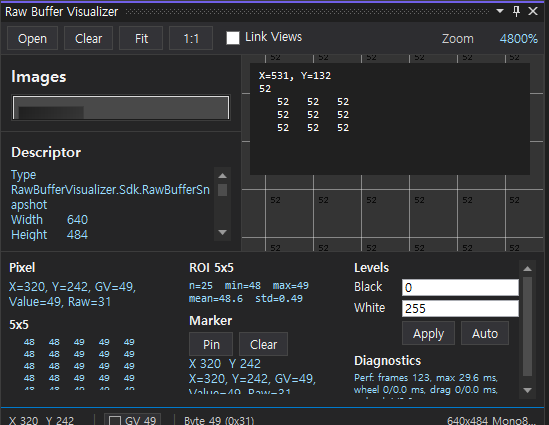
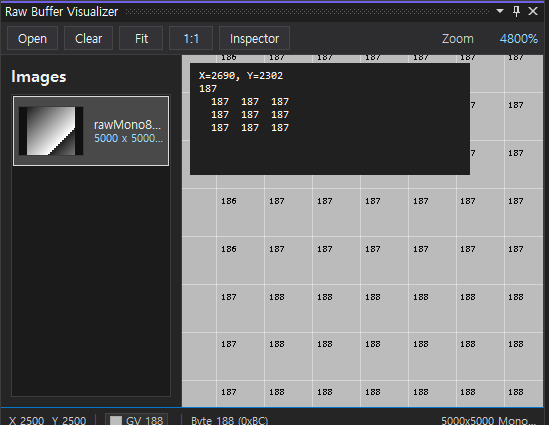
Make docked UI responsive

diff --git a/src/RawBufferVisualizer.VisualStudio.Vssdk/RawBufferToolWindowControl.xaml b/src/RawBufferVisualizer.VisualStudio.Vssdk/RawBufferToolWindowControl.xaml
@@ -60,6 +60,55 @@
                 </Setter.Value>
             </Setter>
         </Style>
+        <Style TargetType="{x:Type ToggleButton}">
+            <Setter Property="Margin" Value="0,0,6,0"/>
+            <Setter Property="Padding" Value="10,3"/>
+            <Setter Property="MinWidth" Value="64"/>
+            <Setter Property="MinHeight" Value="24"/>
+            <Setter Property="Background" Value="{StaticResource CommandBrush}"/>
+            <Setter Property="BorderBrush" Value="#454545"/>
+            <Setter Property="BorderThickness" Value="1"/>
+            <Setter Property="Foreground" Value="{StaticResource TextBrush}"/>
+            <Setter Property="FontSize" Value="12"/>
+            <Setter Property="Template">
+                <Setter.Value>
+                    <ControlTemplate TargetType="{x:Type ToggleButton}">
+                        <Border x:Name="ButtonBorder"
+                                Background="{TemplateBinding Background}"
+                                BorderBrush="{TemplateBinding BorderBrush}"
+                                BorderThickness="{TemplateBinding BorderThickness}">
+                            <ContentPresenter HorizontalAlignment="Center"
+                                              VerticalAlignment="Center"
+                                              Margin="{TemplateBinding Padding}"/>
+                        </Border>
+                        <ControlTemplate.Triggers>
+                            <Trigger Property="IsMouseOver" Value="True">
+                                <Setter TargetName="ButtonBorder" Property="Background" Value="{StaticResource CommandHoverBrush}"/>
+                                <Setter TargetName="ButtonBorder" Property="BorderBrush" Value="#5A5A5A"/>
+                            </Trigger>
+                            <Trigger Property="IsChecked" Value="True">
+                                <Setter TargetName="ButtonBorder" Property="Background" Value="{StaticResource CommandPressedBrush}"/>
+                                <Setter TargetName="ButtonBorder" Property="BorderBrush" Value="#1C97EA"/>
+                            </Trigger>
+                            <Trigger Property="IsEnabled" Value="False">
+                                <Setter Property="Opacity" Value="0.45"/>
+                            </Trigger>
+                        </ControlTemplate.Triggers>
+                    </ControlTemplate>
+                </Setter.Value>
+            </Setter>
+        </Style>
+        <Style TargetType="{x:Type TabControl}">
+            <Setter Property="Background" Value="{StaticResource PanelBrush}"/>
+            <Setter Property="BorderBrush" Value="{StaticResource BorderBrush}"/>
+            <Setter Property="Foreground" Value="{StaticResource TextBrush}"/>
+        </Style>
+        <Style TargetType="{x:Type TabItem}">
+            <Setter Property="Background" Value="#2D2D30"/>
+            <Setter Property="Foreground" Value="{StaticResource TextBrush}"/>
+            <Setter Property="BorderBrush" Value="{StaticResource BorderBrush}"/>
+            <Setter Property="Padding" Value="10,4"/>
+        </Style>
         <Style TargetType="{x:Type ListBox}">
             <Setter Property="Background" Value="#1B1B1B"/>
             <Setter Property="Foreground" Value="{StaticResource TextBrush}"/>
@@ -91,6 +140,7 @@
                     <Button Content="Fit" Click="Fit_Click"/>
                     <Button Content="1:1" Click="ActualSize_Click"/>
                     <CheckBox x:Name="LinkViewsBox" Content="Link Views" Foreground="{StaticResource TextBrush}" VerticalAlignment="Center" Margin="6,0,0,0" Checked="LinkViewsBox_Changed" Unchecked="LinkViewsBox_Changed"/>
+                    <ToggleButton x:Name="InspectorToggleButton" Content="Inspector" Visibility="Collapsed" Checked="InspectorToggleButton_Changed" Unchecked="InspectorToggleButton_Changed"/>
                     <Slider x:Name="ZoomSlider" Visibility="Collapsed" Width="1" Minimum="0.01" Maximum="16" Value="1" TickFrequency="0.1" ValueChanged="ZoomSlider_ValueChanged"/>
                 </WrapPanel>
             </DockPanel>
@@ -104,8 +154,8 @@
 
             <Grid x:Name="MainContentGrid" Grid.Row="0">
                 <Grid.ColumnDefinitions>
-                    <ColumnDefinition x:Name="ImagesColumn" Width="320" MinWidth="240"/>
-                    <ColumnDefinition Width="*" MinWidth="180"/>
+                    <ColumnDefinition x:Name="ImagesColumn" Width="320" MinWidth="160"/>
+                    <ColumnDefinition Width="*" MinWidth="140"/>
                     <ColumnDefinition x:Name="InspectorColumn" Width="300" MinWidth="0"/>
                 </Grid.ColumnDefinitions>
 
@@ -242,60 +292,72 @@
                     BorderBrush="{StaticResource BorderBrush}"
                     BorderThickness="0,1,0,0"
                     Padding="8"
-                    MaxHeight="156"
+                    MaxHeight="168"
                     Visibility="Collapsed">
-                <ScrollViewer VerticalScrollBarVisibility="Auto" HorizontalScrollBarVisibility="Disabled">
-                    <Grid>
-                        <Grid.ColumnDefinitions>
-                            <ColumnDefinition Width="1.2*"/>
-                            <ColumnDefinition Width="1.1*"/>
-                            <ColumnDefinition Width="1.1*"/>
-                        </Grid.ColumnDefinitions>
-
-                        <StackPanel Grid.Column="0" Margin="0,0,10,0">
-                            <TextBlock Text="Pixel" FontWeight="SemiBold" Margin="0,0,0,4"/>
-                            <TextBlock x:Name="CompactPixelText" Foreground="{StaticResource MutedTextBrush}" TextWrapping="Wrap" MaxHeight="34"/>
-                            <TextBlock Text="5x5" FontWeight="SemiBold" Margin="0,8,0,4"/>
-                            <TextBlock x:Name="CompactPixelNeighborhoodText" Foreground="{StaticResource MutedTextBrush}" TextWrapping="Wrap" FontFamily="Consolas" FontSize="10" MaxHeight="54"/>
-                        </StackPanel>
-
-                        <StackPanel Grid.Column="1" Margin="0,0,10,0">
-                            <TextBlock Text="ROI 5x5" FontWeight="SemiBold" Margin="0,0,0,4"/>
-                            <TextBlock x:Name="CompactRoiStatsText" Foreground="{StaticResource MutedTextBrush}" TextWrapping="Wrap" FontFamily="Consolas" FontSize="11"/>
-                            <TextBlock Text="Marker" FontWeight="SemiBold" Margin="0,8,0,4"/>
-                            <WrapPanel>
-                                <Button Content="Pin" Click="PinMarker_Click"/>
-                                <Button Content="Clear" Click="ClearMarker_Click"/>
-                            </WrapPanel>
-                            <TextBlock x:Name="CompactMarkerText" Foreground="{StaticResource MutedTextBrush}" TextWrapping="Wrap" MaxHeight="38"/>
-                        </StackPanel>
-
-                        <StackPanel Grid.Column="2">
-                            <TextBlock Text="Levels" FontWeight="SemiBold" Margin="0,0,0,4"/>
-                            <Grid>
+                <TabControl x:Name="CompactInspectorTabs">
+                    <TabItem Header="Pixel">
+                        <ScrollViewer VerticalScrollBarVisibility="Auto" HorizontalScrollBarVisibility="Disabled">
+                            <Grid Margin="4">
                                 <Grid.ColumnDefinitions>
-                                    <ColumnDefinition Width="48"/>
-                                    <ColumnDefinition Width="*"/>
+                                    <ColumnDefinition Width="1.1*"/>
+                                    <ColumnDefinition Width="1*"/>
                                 </Grid.ColumnDefinitions>
-                                <Grid.RowDefinitions>
-                                    <RowDefinition Height="Auto"/>
-                                    <RowDefinition Height="Auto"/>
-                                    <RowDefinition Height="Auto"/>
-                                </Grid.RowDefinitions>
-                                <TextBlock Grid.Row="0" Grid.Column="0" Text="Black" Margin="0,0,6,4"/>
-                                <TextBox Grid.Row="0" Grid.Column="1" x:Name="CompactBlackLevelTextBox" Margin="0,0,0,4"/>
-                                <TextBlock Grid.Row="1" Grid.Column="0" Text="White" Margin="0,0,6,4"/>
-                                <TextBox Grid.Row="1" Grid.Column="1" x:Name="CompactWhiteLevelTextBox" Margin="0,0,0,4"/>
-                                <WrapPanel Grid.Row="2" Grid.Column="1">
-                                    <Button Content="Apply" Click="ApplyCompactLevels_Click"/>
-                                    <Button Content="Auto" Click="AutoLevels_Click"/>
-                                </WrapPanel>
+                                <StackPanel Grid.Column="0" Margin="0,0,12,0">
+                                    <TextBlock Text="Current" FontWeight="SemiBold" Margin="0,0,0,4"/>
+                                    <TextBlock x:Name="CompactPixelText" Foreground="{StaticResource MutedTextBrush}" TextWrapping="Wrap" MaxHeight="36"/>
+                                    <TextBlock Text="5x5" FontWeight="SemiBold" Margin="0,8,0,4"/>
+                                    <TextBlock x:Name="CompactPixelNeighborhoodText" Foreground="{StaticResource MutedTextBrush}" TextWrapping="Wrap" FontFamily="Consolas" FontSize="10"/>
+                                </StackPanel>
+                                <StackPanel Grid.Column="1">
+                                    <TextBlock Text="ROI 5x5" FontWeight="SemiBold" Margin="0,0,0,4"/>
+                                    <TextBlock x:Name="CompactRoiStatsText" Foreground="{StaticResource MutedTextBrush}" TextWrapping="Wrap" FontFamily="Consolas" FontSize="11"/>
+                                    <TextBlock Text="Marker" FontWeight="SemiBold" Margin="0,8,0,4"/>
+                                    <WrapPanel>
+                                        <Button Content="Pin" Click="PinMarker_Click"/>
+                                        <Button Content="Clear" Click="ClearMarker_Click"/>
+                                    </WrapPanel>
+                                    <TextBlock x:Name="CompactMarkerText" Foreground="{StaticResource MutedTextBrush}" TextWrapping="Wrap" MaxHeight="38"/>
+                                </StackPanel>
                             </Grid>
-                            <TextBlock Text="Diagnostics" FontWeight="SemiBold" Margin="0,8,0,4"/>
-                            <TextBlock x:Name="CompactPerformanceText" Foreground="{StaticResource MutedTextBrush}" TextWrapping="Wrap" FontSize="10" MaxHeight="38"/>
-                        </StackPanel>
-                    </Grid>
-                </ScrollViewer>
+                        </ScrollViewer>
+                    </TabItem>
+                    <TabItem Header="Levels">
+                        <Grid Margin="4">
+                            <Grid.ColumnDefinitions>
+                                <ColumnDefinition Width="64"/>
+                                <ColumnDefinition Width="160"/>
+                                <ColumnDefinition Width="*"/>
+                            </Grid.ColumnDefinitions>
+                            <Grid.RowDefinitions>
+                                <RowDefinition Height="Auto"/>
+                                <RowDefinition Height="Auto"/>
+                                <RowDefinition Height="Auto"/>
+                            </Grid.RowDefinitions>
+                            <TextBlock Grid.Row="0" Grid.Column="0" Text="Black" Margin="0,0,8,6"/>
+                            <TextBox Grid.Row="0" Grid.Column="1" x:Name="CompactBlackLevelTextBox" Margin="0,0,8,6"/>
+                            <TextBlock Grid.Row="1" Grid.Column="0" Text="White" Margin="0,0,8,6"/>
+                            <TextBox Grid.Row="1" Grid.Column="1" x:Name="CompactWhiteLevelTextBox" Margin="0,0,8,6"/>
+                            <WrapPanel Grid.Row="2" Grid.Column="1">
+                                <Button Content="Apply" Click="ApplyCompactLevels_Click"/>
+                                <Button Content="Auto" Click="AutoLevels_Click"/>
+                            </WrapPanel>
+                        </Grid>
+                    </TabItem>
+                    <TabItem Header="Diagnostics">
+                        <ScrollViewer VerticalScrollBarVisibility="Auto" HorizontalScrollBarVisibility="Disabled">
+                            <StackPanel Margin="4">
+                                <TextBlock x:Name="CompactPerformanceText" Foreground="{StaticResource MutedTextBrush}" TextWrapping="Wrap" FontSize="10" Margin="0,0,0,8"/>
+                                <ItemsControl ItemsSource="{Binding ElementName=DiagnosticsList, Path=Items}">
+                                    <ItemsControl.ItemTemplate>
+                                        <DataTemplate>
+                                            <TextBlock Text="{Binding}" Foreground="{StaticResource MutedTextBrush}" TextWrapping="Wrap" FontSize="11" Margin="0,0,0,3"/>
+                                        </DataTemplate>
+                                    </ItemsControl.ItemTemplate>
+                                </ItemsControl>
+                            </StackPanel>
+                        </ScrollViewer>
+                    </TabItem>
+                </TabControl>
             </Border>
         </Grid>
 

diff --git a/src/RawBufferVisualizer.VisualStudio.Vssdk/RawBufferToolWindowControl.xaml.cs b/src/RawBufferVisualizer.VisualStudio.Vssdk/RawBufferToolWindowControl.xaml.cs
@@ -67,6 +67,7 @@ namespace RawBufferVisualizer.VisualStudio.Vssdk
             UpdatePerformanceText();
             UpdateCompareText();
             UpdateStatus();
+            ApplyResponsiveLayout(ActualWidth);
         }
 
         public void OpenHandoffRequest(string requestPath)
@@ -548,6 +549,11 @@ namespace RawBufferVisualizer.VisualStudio.Vssdk
                     _activeDocument.ViewState = _linkedViewState;
                 }
             }
+        }
+
+        private void InspectorToggleButton_Changed(object sender, RoutedEventArgs e)
+        {
+            ApplyResponsiveLayout(ActualWidth);
         }
 
         private void OpenGlImageView_ViewChanged(object? sender, EventArgs e)
@@ -1206,29 +1212,52 @@ namespace RawBufferVisualizer.VisualStudio.Vssdk
 
         private void Root_SizeChanged(object sender, SizeChangedEventArgs e)
         {
-            var width = e.NewSize.Width;
+            ApplyResponsiveLayout(e.NewSize.Width);
+        }
+
+        private void ApplyResponsiveLayout(double width)
+        {
+            if (ImagesColumn == null || InspectorColumn == null || InspectorPanel == null || CompactInspectorPanel == null || StatusText == null)
+            {
+                return;
+            }
+
+            if (width <= 0 || double.IsNaN(width))
+            {
+                width = ActualWidth;
+            }
+
             if (width < 760)
             {
-                ImagesColumn.Width = new GridLength(240);
+                ImagesColumn.Width = new GridLength(width < 620 ? 180 : 220);
                 InspectorColumn.Width = new GridLength(0);
+                DescriptorPanel.Visibility = Visibility.Collapsed;
                 InspectorPanel.Visibility = Visibility.Collapsed;
-                CompactInspectorPanel.Visibility = Visibility.Visible;
+                CompactInspectorPanel.Visibility = InspectorToggleButton.IsChecked == true ? Visibility.Visible : Visibility.Collapsed;
+                InspectorToggleButton.Visibility = Visibility.Visible;
+                LinkViewsBox.Visibility = width < 620 ? Visibility.Collapsed : Visibility.Visible;
                 StatusText.Width = 95;
             }
-            else if (width < 980)
+            else if (width < 1040)
             {
-                ImagesColumn.Width = new GridLength(300);
+                ImagesColumn.Width = new GridLength(width < 880 ? 260 : 300);
                 InspectorColumn.Width = new GridLength(0);
+                DescriptorPanel.Visibility = width < 880 ? Visibility.Collapsed : Visibility.Visible;
                 InspectorPanel.Visibility = Visibility.Collapsed;
                 CompactInspectorPanel.Visibility = Visibility.Visible;
+                InspectorToggleButton.Visibility = Visibility.Collapsed;
+                LinkViewsBox.Visibility = Visibility.Visible;
                 StatusText.Width = 115;
             }
             else
             {
                 ImagesColumn.Width = new GridLength(320);
                 InspectorColumn.Width = new GridLength(300);
+                DescriptorPanel.Visibility = Visibility.Visible;
                 InspectorPanel.Visibility = Visibility.Visible;
                 CompactInspectorPanel.Visibility = Visibility.Collapsed;
+                InspectorToggleButton.Visibility = Visibility.Collapsed;
+                LinkViewsBox.Visibility = Visibility.Visible;
                 StatusText.Width = 150;
             }
         }